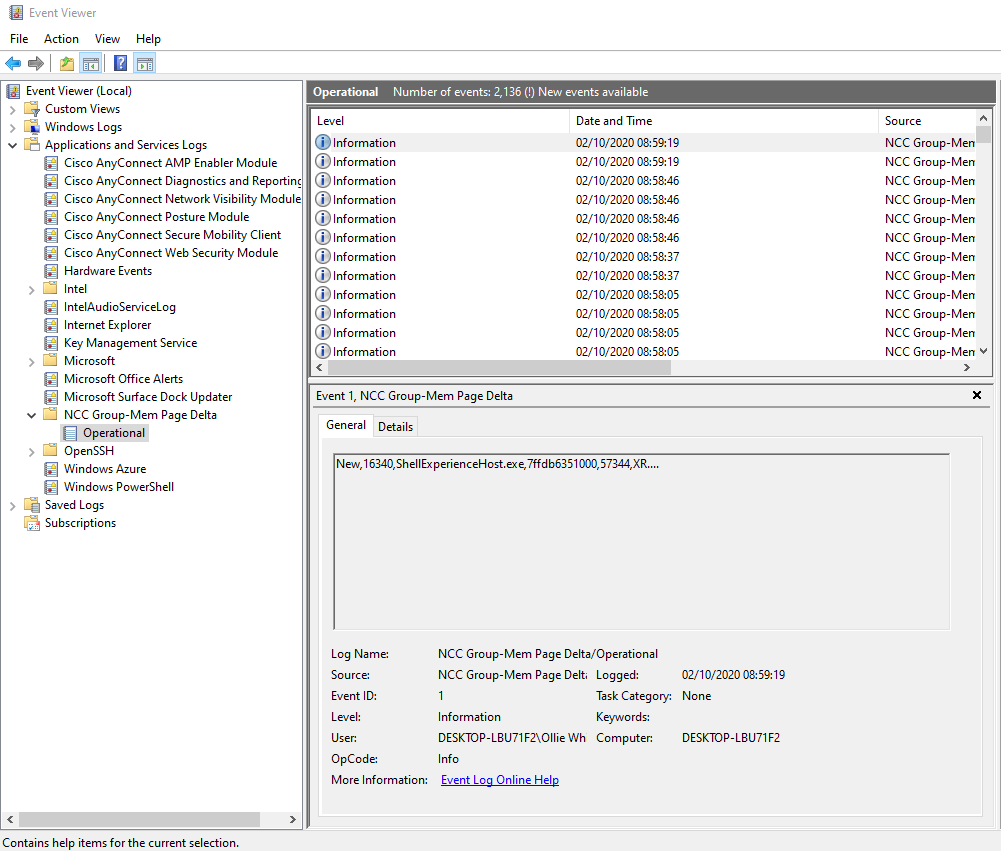
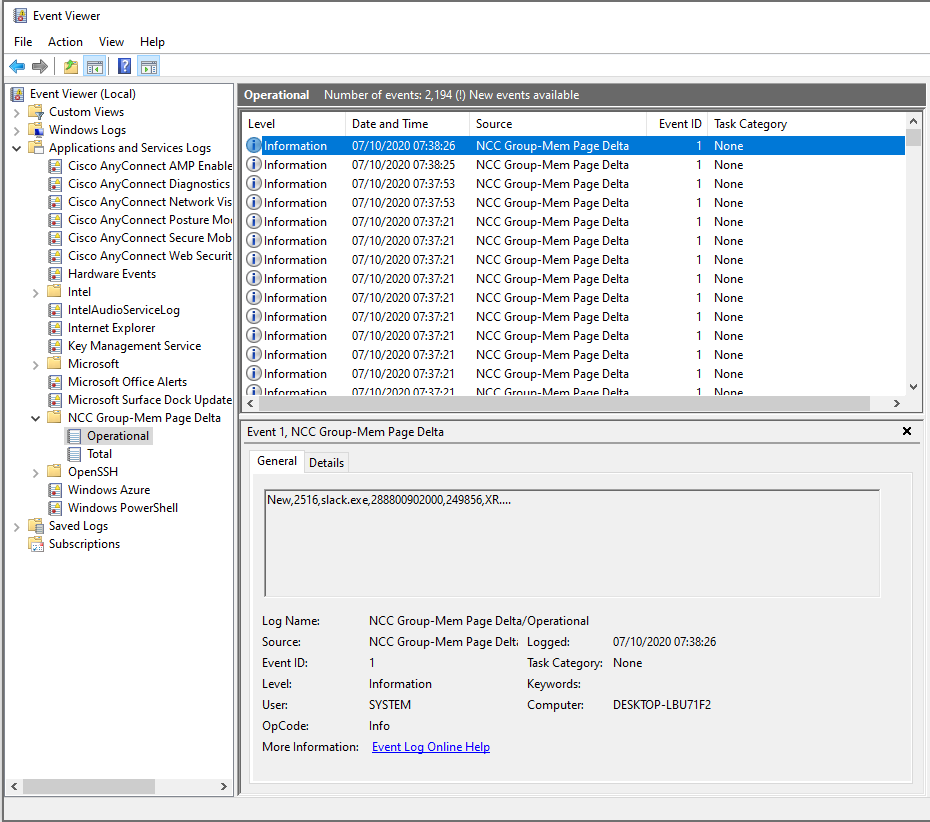
Update readme and add screenshot of the new totals

Changed region(s): [[0.0, 0.0, 1.0, 1.0]]

diff --git a/README.md b/README.md
@@ -81,11 +81,19 @@ wevtutil install-manifest SvcEventManifest.man
 
 Logs are in Event Logging
 -------------
-![Eventvwr Example](https://raw.githubusercontent.com/nccgroup/WindowsMemPageDelta/master/images/Eventvwr.PNG)
+There are two buckets
+- Individual executable page deltas - to detect specific anomalies
+- Totals of executable memory per process - to aid longitudal monitoring and variance detection
+
+Individual deltas:
+![Eventvwr Example for Deltas](https://raw.githubusercontent.com/nccgroup/WindowsMemPageDelta/master/images/Eventvwr.PNG)
+
+Individual deltas:
+![Eventvwr Example for Totals](https://raw.githubusercontent.com/nccgroup/WindowsMemPageDelta/master/images/Eventvwr2.PNG)
 
 Output schema
 -------------
-The schema for New events is:
+The schema for New delta events is:
 ```
 TYPE,PID,Process Name,Address,Size,Protection
 ```
@@ -104,7 +112,7 @@ New,12692,ScriptedSandbox64.exe,1e247af0000,40960,X.....
 ...
 ```
 
-The schema for Change events is:
+The schema for Change delta events is:
 
 ```
 TYPE,PID,Process Name,Address,Size,Protection,Previous Protection
@@ -122,7 +130,7 @@ Changed,16008,Teams.exe,cc86ea04000,503808,XR....,.RW....
 Changed,16008,Teams.exe,cc86ec84000,503808,XR....,.RW....
 ```
 
-The schema for Total events is (not released yet - only in code):
+The schema for Total events is:
 ```
 TYPE,PID,Process Name,Total Executable Memory Bytes
 ```
